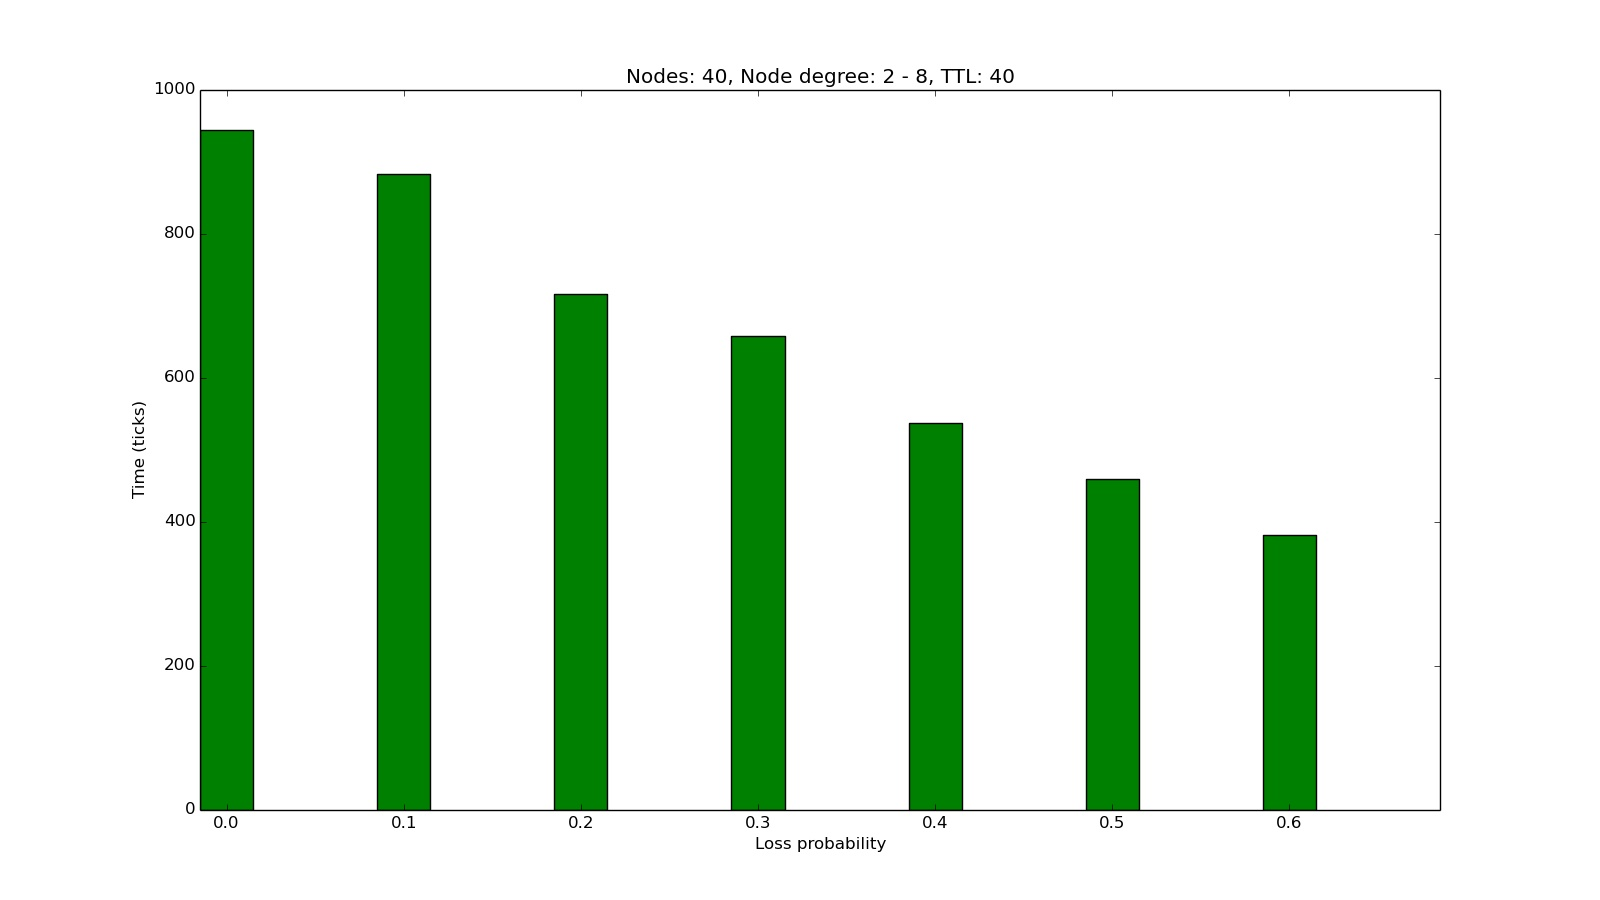
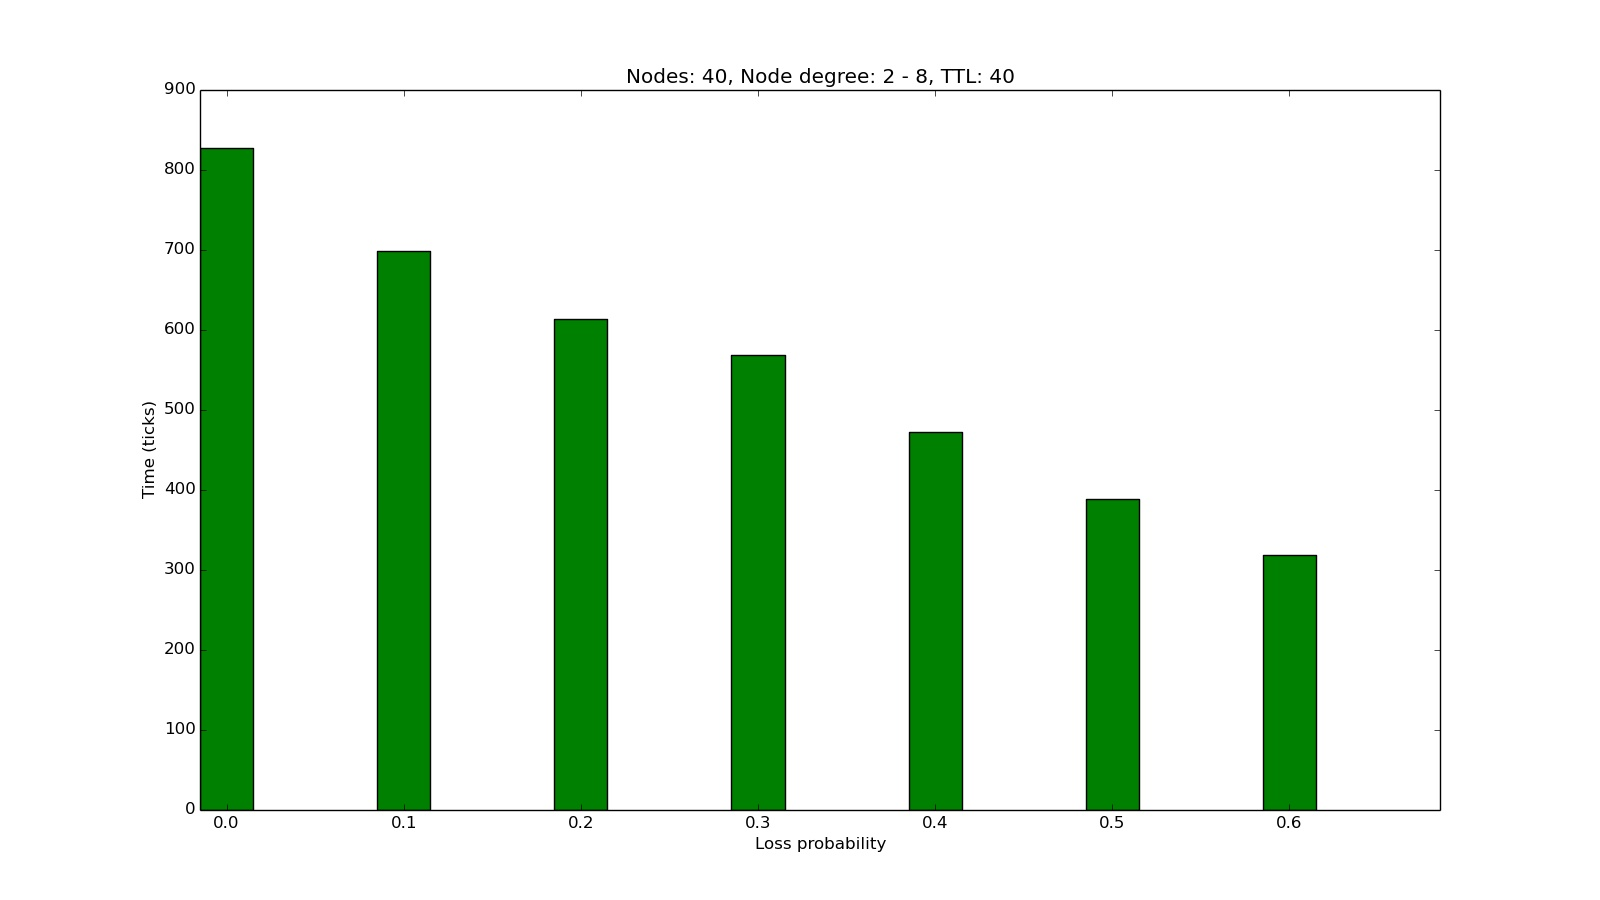
Added more iteration due to instability

diff --git a/init.py b/init.py
@@ -8,7 +8,7 @@ import sys
 probabilities = [0.0, 0.1, 0.2, 0.3, 0.4, 0.5, 0.6]
 ticks = []
 
-iters = 20
+iters = 32
 
 nodes_amount = "40"
 port = "4400"
